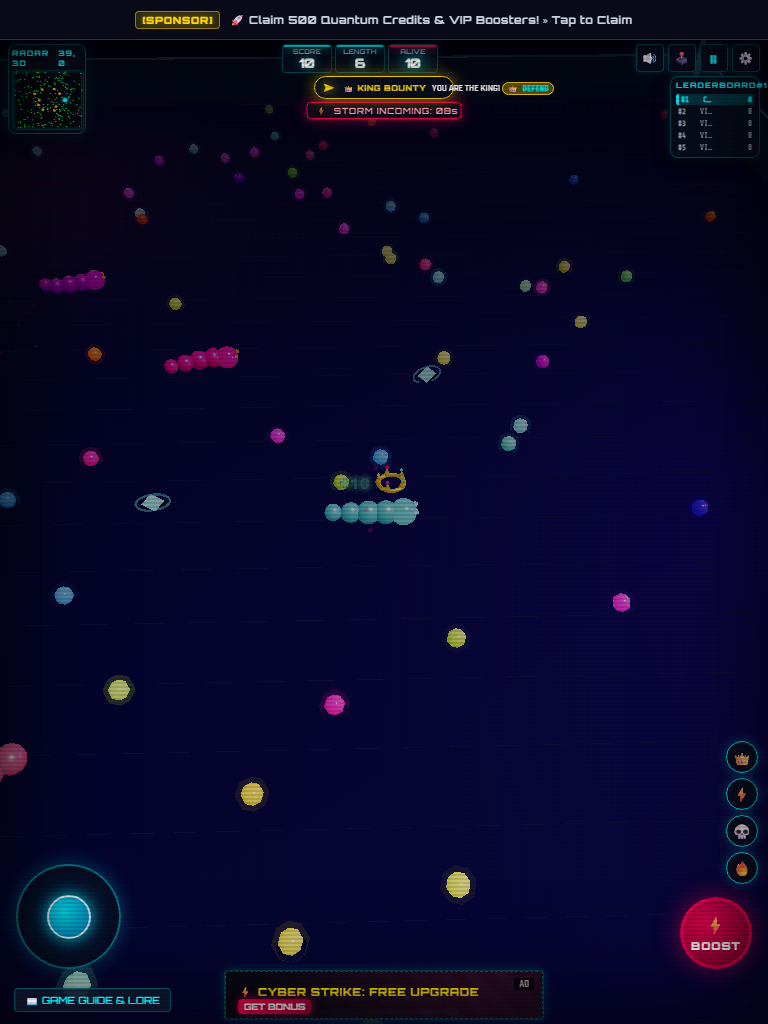
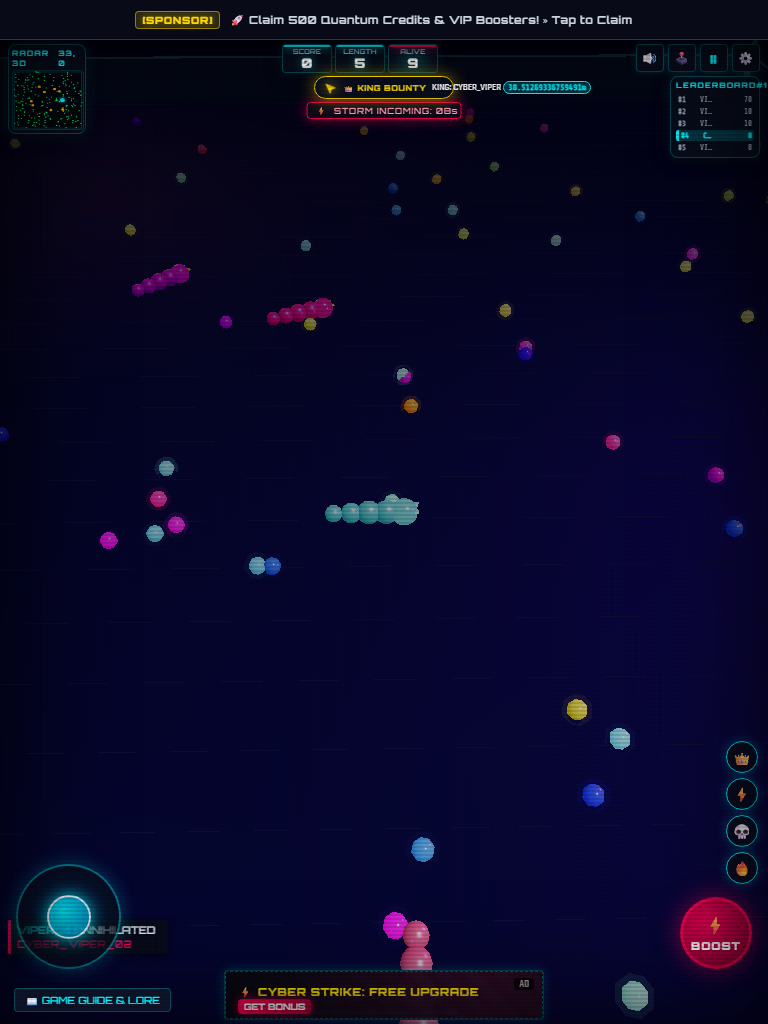
feat(physics): accelerate step speed, 2.2x turbo boost, 10.5 rad/s turn speed, and zero-lag input pipeline

diff --git a/game_engine.js b/game_engine.js
@@ -24,6 +24,10 @@
     ARENA_SIZE:        80,          // half-extent of the square play area
     GRID:              1.5,         // snake segment spacing
     TICK_MS:           100,         // base move tick (ms)
+    BASE_SPEED:        24.0,        // fast snappy serpent base velocity (was 15.0)
+    BOOST_MULTIPLIER:  2.2,         // high-octane turbo sprint multiplier (was 2.0)
+    TURN_SPEED:        10.5,        // razor-sharp angular steering velocity (rad/s, was 6.2)
+    BOOST_TURN_SPEED:  14.0,        // high-agility boost turn velocity (rad/s, was 7.5)
     NUM_AI:            9,           // AI snakes (player = 1 → total 10)
     FOOD_COUNT:        200,         // live food pellets (abundant .io arena feel)
     POWERUP_COUNT:     8,           // live power-ups
@@ -491,8 +495,10 @@
       this.tickAccum = 0;
       this.scale    = 1.0;
       this.slitherTime = Math.random() * 10;
-      this.turnSpeed = 6.2;
-      this.baseSpeed = 15.0;
+      this.turnSpeed = CFG.TURN_SPEED;
+      this.baseSpeed = CFG.BASE_SPEED;
+      this.boostTurnSpeed = CFG.BOOST_TURN_SPEED;
+      this.boostMultiplier = CFG.BOOST_MULTIPLIER;
       this.segmentSpacing = 1.05;
 
       // Active power-ups: map type -> expiry timestamp
@@ -660,7 +666,7 @@
         SCORE_2X:        CFG.SCORE_MULTI_DURATION,
       };
       this.powerups[type] = now + (durations[type] || 5000);
-      if (type === 'LIGHTNING_BOOST') this.speed = 2;
+      if (type === 'LIGHTNING_BOOST') this.speed = (this.boostMultiplier || CFG.BOOST_MULTIPLIER);
     }
 
     tickPowerups(now) {
@@ -702,7 +708,8 @@
       while (diff < -Math.PI) diff += Math.PI * 2;
       while (diff > Math.PI) diff -= Math.PI * 2;
 
-      const turnRate = (this.isBoosting || this.speed > 1) ? 7.5 : 6.2;
+      const isBoosting = this.isBoosting || this.speed > 1 || this.hasPowerup('LIGHTNING_BOOST');
+      const turnRate = isBoosting ? (this.boostTurnSpeed || CFG.BOOST_TURN_SPEED) : (this.turnSpeed || CFG.TURN_SPEED);
       const maxTurn = turnRate * dt;
       const clampedTurn = Math.max(-maxTurn, Math.min(maxTurn, diff));
       const newAngle = curAngle + clampedTurn;
@@ -710,8 +717,9 @@
       this.dir.z = Math.sin(newAngle);
 
       // 2. Continuous forward translation
-      const baseSpeed = this.baseSpeed || 15.0;
-      const moveDist = baseSpeed * this.speed * dt;
+      const baseSpeed = this.baseSpeed || CFG.BASE_SPEED;
+      const currentMultiplier = isBoosting ? Math.max(this.speed, (this.boostMultiplier || CFG.BOOST_MULTIPLIER)) : this.speed;
+      const moveDist = baseSpeed * currentMultiplier * dt;
       this.positions[0].x += this.dir.x * moveDist;
       this.positions[0].z += this.dir.z * moveDist;
 
@@ -722,11 +730,22 @@
       const dz = this.positions[0].z - lastZ;
       const dFromLast = Math.hypot(dx, dz);
 
-      if (dFromLast >= 0.12) {
-        this._trailHead = (this._trailHead + 1) % this._maxTrail;
-        this._trailX[this._trailHead] = this.positions[0].x;
-        this._trailZ[this._trailHead] = this.positions[0].z;
-        if (this._trailCount < this._maxTrail) this._trailCount++;
+      if (dFromLast >= 0.10) {
+        const steps = Math.min(8, Math.floor(dFromLast / 0.12));
+        if (steps <= 1) {
+          this._trailHead = (this._trailHead + 1) % this._maxTrail;
+          this._trailX[this._trailHead] = this.positions[0].x;
+          this._trailZ[this._trailHead] = this.positions[0].z;
+          if (this._trailCount < this._maxTrail) this._trailCount++;
+        } else {
+          for (let s = 1; s <= steps; s++) {
+            const frac = s / steps;
+            this._trailHead = (this._trailHead + 1) % this._maxTrail;
+            this._trailX[this._trailHead] = lastX + dx * frac;
+            this._trailZ[this._trailHead] = lastZ + dz * frac;
+            if (this._trailCount < this._maxTrail) this._trailCount++;
+          }
+        }
       }
 
       // 4. Exact path-following interpolation for all body segments (No corner cutting)
@@ -764,7 +783,7 @@
       }
 
       // 5. Update Three.js meshes with natural slither undulation
-      this.slitherTime = (this.slitherTime || 0) + dt * this.speed * 8.0;
+      this.slitherTime = (this.slitherTime || 0) + dt * currentMultiplier * 8.0;
       for (let i = 0; i < this.segments.length; i++) {
         const m = this.segments[i];
         const p = this.positions[i];
@@ -838,7 +857,7 @@
       let bestScore = -Infinity;
 
       const speedMult = (snake.speed > 1 || snake.isBoosting) ? 1.5 : 1.0;
-      const lookAhead = Math.max(7.0, (9.5 * speedMult) * (snake.scale || 1.0));
+      const lookAhead = Math.max(9.0, (14.0 * speedMult) * (snake.scale || 1.0));
       const A = CFG.ARENA_SIZE - 2.5;
       const dirs = SAMPLE_DIRECTIONS || CARDINAL_DIRECTIONS;
 
@@ -941,7 +960,7 @@
       if (snake.aiBoostDuration > 0) {
         snake.aiBoostDuration -= 0.05;
         snake.isBoosting = true;
-        snake.speed = 2;
+        snake.speed = (snake.boostMultiplier || CFG.BOOST_MULTIPLIER);
       } else {
         if (snake.aiBoostCooldown > 0) {
           snake.aiBoostCooldown -= 0.05;
@@ -951,7 +970,7 @@
           snake.aiBoostDuration = 1.2;
           snake.aiBoostCooldown = 3.5;
           snake.isBoosting = true;
-          snake.speed = 2;
+          snake.speed = (snake.boostMultiplier || CFG.BOOST_MULTIPLIER);
         } else {
           snake.isBoosting = false;
           snake.speed = 1;
@@ -1673,7 +1692,7 @@
       if (!this.player || !this.player.alive) return;
       this.player.isBoosting = boosting;
       if (boosting) {
-        this.player.speed = 2;
+        this.player.speed = (this.player.boostMultiplier || CFG.BOOST_MULTIPLIER);
         this.audio.boost();
       } else if (!this.player.hasPowerup('LIGHTNING_BOOST')) {
         this.player.speed = 1;
@@ -1747,6 +1766,17 @@
         this._fire('onPhaseShield', isShielded, remMs);
       }
 
+      // Apply queued player input with zero latency before physics step
+      this._applyInput();
+
+      // AI steering updates before physics step
+      for (let s = 0; s < this.snakes.length; s++) {
+        const snake = this.snakes[s];
+        if (!snake.isPlayer && snake.alive) {
+          this.ai.steer(snake, this.items.foods, this.items.powerups, this.storm.center, this.storm.radius, this.snakes, now);
+        }
+      }
+
       // Continuous butter-smooth snake movement & curvature interpolation
       for (let s = 0; s < this.snakes.length; s++) {
         const snake = this.snakes[s];
@@ -1757,17 +1787,6 @@
 
       // Physics, gap-free collision detection, vacuum food ingestion & item pickups
       this._updatePhysicsAndCollisions(now, dt);
-
-      // Apply queued player input
-      this._applyInput();
-
-      // AI steering
-      for (let s = 0; s < this.snakes.length; s++) {
-        const snake = this.snakes[s];
-        if (!snake.isPlayer && snake.alive) {
-          this.ai.steer(snake, this.items.foods, this.items.powerups, this.storm.center, this.storm.radius, this.snakes, now);
-        }
-      }
 
       // Ghost flicker
       if (this.player.alive && this.player.hasPowerup('GHOST')) {
@@ -1947,12 +1966,12 @@
 
           // Natural smooth magnetic vacuum glide into snake mouth
           if (dist < vacRadius && dist > 0.01) {
-            const pullSpeed = (s.hasPowerup('MAGNET') ? 16.0 : (dist < 2.0 ? 12.0 : 6.0)) * dt;
+            const pullSpeed = (s.hasPowerup('MAGNET') ? 28.0 : (dist < 2.5 ? 20.0 : 12.0)) * dt;
             fPos.x += (dx / dist) * pullSpeed;
             fPos.z += (dz / dist) * pullSpeed;
           }
 
-          const eatDist = (s.scale || 1.0) * 1.25;
+          const eatDist = (s.scale || 1.0) * 1.5;
           if (dist < eatDist) {
             const baseGain = f.isDeathPellet ? (f.value || 20) : 10;
             const scoreGain = s.hasPowerup('SCORE_2X') ? baseGain * 2 : baseGain;
@@ -2005,7 +2024,7 @@
           if (!s.alive) continue;
           const head = s.headPos();
           const dist = Math.hypot(head.x - puPos.x, head.z - puPos.z);
-          if (dist < (s.scale || 1.0) * 1.4) {
+          if (dist < (s.scale || 1.0) * 1.6) {
             s.activatePowerup(pu.type, now);
             this.particles.burst(puPos, this.items._puColors[pu.type], 25);
 
@@ -2129,7 +2148,7 @@
         : ZERO_VEC;
 
       // Framerate-independent camera lerp
-      const lerpAlpha = 1 - Math.exp(-9.0 * (dt || 0.016));
+      const lerpAlpha = 1 - Math.exp(-12.0 * (dt || 0.016));
       this._camTarget.lerp(target, lerpAlpha);
 
       // 1. Logarithmic Altitude & Distance Scaling based on Mass / Length
@@ -2175,10 +2194,12 @@
     /* ── Input apply ─────────────────────────────────────────── */
     _applyInput() {
       if (!this.player || !this.player.alive || this._inputQueue.length === 0) return;
-      const d = this._inputQueue.shift();
-      this.player.nextDir.copy(d);
-      if (this._inputVecPool.length < 8) {
-        this._inputVecPool.push(d);
+      while (this._inputQueue.length > 0) {
+        const d = this._inputQueue.shift();
+        this.player.nextDir.copy(d);
+        if (this._inputVecPool.length < 8) {
+          this._inputVecPool.push(d);
+        }
       }
     }
 
@@ -2268,6 +2289,7 @@
   /* =========================================================
    *  EXPORT
    * ========================================================= */
+  ApexSerpentEngine.CFG = CFG;
   global.ApexSerpentEngine = ApexSerpentEngine;
 
 })(typeof window !== 'undefined' ? window : global);
